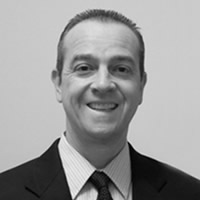
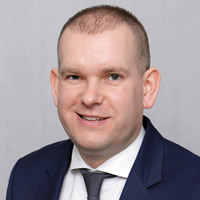
Przykład z wykorzystaniem modal

diff --git a/index.html b/index.html
@@ -9,6 +9,7 @@
 	<title>Data Zoom</title>
 	<meta name="description" content="">
 	<meta name="viewport" content="width=device-width">
+	<link rel="icon" type="image/png" sizes="32x32" href="bundles/dz/dz/images/favicon.png">
 	<!-- Place favicon.ico and apple-touch-icon.png in the root directory -->
 	<!--<link rel="stylesheet" href="http://maxcdn.bootstrapcdn.com/bootstrap/3.3.5/css/bootstrap.min.css">-->
 	<!--<script src="https://ajax.googleapis.com/ajax/libs/jquery/1.11.3/jquery.min.js"></script>-->
@@ -39,7 +40,7 @@
 		<div class="collapse navbar-collapse" id="navbarResponsive">
 			<ul class="navbar-nav ml-auto">
 				<li class="nav-item">
-					<a class="nav-link about" href="#">o Data Zoom</a>
+					<a class="nav-link about" href="#">O Data Zoom</a>
 				</li>
 				<li class="nav-item">
 					<a class="nav-link competition" href="#">Kompetencje<span class="sr-only">(current)</span></a>
@@ -111,10 +112,63 @@
 <div class="container full-screen">
 
 	<!-- Introduction Row -->
-	<h3 class="my-4">o Data Zoom</h3>
-	<p>Lorem ipsum dolor sit amet, consectetur adipisicing elit. Sint, explicabo dolores ipsam aliquam inventore corrupti eveniet quisquam quod totam laudantium repudiandae obcaecati ea consectetur debitis velit facere nisi expedita vel?</p>
-	<p style="margin-bottom: 30px">&nbsp;</p>
-	<div class="row">
+	<h3 class="my-4">O Data Zoom Management Consulting</h3>
+
+	<p>Data Zoom jest firmą doradczą wspierającą zakłady ubezpieczeń zarówno w kwestiach strategicznych, jak i operacyjnych. Nasze możliwości działania oraz doświadczenie kluczowych osób z naszego zespołu obejmują nie tylko Polskę, ale cały region Europy Środkowo-Wschodniej.</p>
+	<p>W naszym działaniu opieramy się na jak najbliższej współpracy z klientem, łącząc obiektywizm spojrzenia „z zewnątrz” z ciągłą, partnerską interakcją i współtworzeniem rozwiązań.</p>
+	<p>Zakres naszych kompetencji rozciąga się od zagadnień strategicznych, takich, jak wybór drogi rozwoju czy fuzje i przejęcia po wyzwania operacyjne, np. analizę potrzeb rynku, konkurencyjności czy tworzenie nowych produktów. </p>
+	<p>Trzon naszego zespołu stanowią fachowcy o wieloletnim doświadczeniu w pracy na i dla rynków ubezpieczeniowych. Ich drogi zawodowe dały im możliwość teoretycznego i praktycznego poznania wszystkich aspektów funkcjonowania zakładów ubezpieczeń o zróżnicowanej wielkości, celach i możliwościach.</p>
+	<p><br></p>
+	<h3 class="my-4">Nasze wartości</h3>
+
+	<p>Wartości, którym jesteśmy wierni, wytyczają nasze działania, jako firmy. Określają też postępowanie każdego z nas, niezależnie od wyzwań, z jakimi się stykamy.</p>
+
+	<p class="red"><strong>Szacunek</strong></p>
+	<ul>
+		<li>Każdy klient jest jednakowo ważny, każdy problem klienta jest jednakowo ważny, każdemu zleceniu poświęcamy maksymalną uwagę</li>
+		<li>Nie obiecujemy rozwiązań, których nie jesteśmy w stanie zrealizować</li>
+		<li>Na zawsze zachowujemy poufność naszych relacji z klientem</li>
+	</ul>
+	<p class="red"><strong>Porozumienie</strong></p>
+	<ul>
+		<li>Wszystko co robimy, powstaje w porozumieniu z klientem i służy wyłącznie jego celom</li>
+		<li>Podstawą naszej pracy jest dogłębne zrozumienie nie tylko potrzeb, ale także filozofii działania, celów i zasad, jakimi kieruje się klient – nasz partner</li>
+	</ul>
+	<p class="red"><strong>Wartość</strong></p>
+	<ul>
+		<li>Sensem każdego naszego działania jest dostarczanie klientowi wymiernej, trwałej wartości</li>
+		<li>Identyfikujemy potrzeby klienta i dostarczamy rzeczywiste rozwiązania</li>
+	</ul>
+	<p class="red"><strong>Trwałość więzi</strong></p>
+	<ul>
+		<li style="list-style: none">Dla nas nie istnieje pojęcie „były klient”. Więź pozostaje na zawsze - nie ustaje wraz z zrealizowaniem zlecenia</li>
+	</ul>
+
+
+	<p><br></p>
+	<h3 class="my-4">Nasze podejście</h3>
+
+	<p>Nasze podejście oparte jest na czterech głównych wyróżnikach:</p>
+
+	<p class="red"><strong>Rzetelności</strong></p>
+	<ul>
+		<li style="list-style: none">Nasi eksperci przeanalizują wszystkie, nawet pozornie nieistotne elementy mające wpływ na postawione nam zadanie</li>
+	</ul>
+	<p class="red"><strong>Współuczestnictwie</strong></p>
+	<ul>
+		<li style="list-style: none">Od samego początku klient jest naszym partnerem i bierze udział w procesie powstawania rozwiązania</li>
+	</ul>
+	<p class="red"><strong>Otwartość w komunikacji</strong></p>
+	<ul>
+		<li style="list-style: none">Szacunek dla klienta wymaga od nas absolutnej szczerości nawet, jeśli wiemy, że nasza opinia spotka się z jego sprzeciwem</li>
+	</ul>
+	<p class="red"><strong>Ciągłych ulepszeniach</strong></p>
+	<ul>
+		<li style="list-style: none">Stale analizujemy nowe okoliczności i poszukujemy nowych, doskonalszych rozwiązań</li>
+	</ul>
+
+
+	<!--<div class="row">
 		<div class="col-lg-4 mb-4">
 			<div class="card h-100 box">
 				<div class="card-body">
@@ -139,7 +193,7 @@
 				</div>
 			</div>
 		</div>
-	</div>
+	</div>-->
 </div>
 
 
@@ -158,12 +212,11 @@
 				<div class="card-body">
 					<h5>Strategie rozwoju</h5>
 					<ul>
-						<li>Wypracowanie strategii rozwoju  ubezpieczycieli lub wybranych obszarów biznesowych</li>
-						<li>Wzmocnienie obecnych przewag konkurencyjnych oraz identyfikacja przewag do potencjalnego rozwoju</li>
-						<li>Strategie produktowe, <br>w tym wprowadzanie na rynek nowego produktu</li>
-						<li>Strategie cenowe  - dotyczy nowych <br>i istniejących produktów</li>
-						<li>Ekspansja zagraniczna, fuzje i przejęcia (M&A)</li>
-						<li>Skuteczne wdrożenie (operacjonalizacja) strategii</li>
+						<li>Diagnozy przewag konkurencyjnych <br>i strategie ich wzmacniania</li>
+						<li>Wspieranie transformacji strategicznych, zmieniających przyjęte kierunki rozwoju</li>
+						<li>Skuteczne wdrożenia (operacjonalizacje) strategii</li>
+						<li>Wdrożenia innowacyjnych produktów na rynek</li>
+						<li>Rozwój poprzez ekspansję terytorialną oraz w ramach łańcucha wartości</li>
 					</ul>
 				</div>
 			</div>
@@ -171,16 +224,13 @@
 		<div class="col-lg-4 mb-4">
 			<div class="card h-100 box">
 				<div class="card-body">
-					<h5>Poprawa efektywności</h5>
+					<h5>Doskonałość operacyjna</h5>
 					<ul>
-						<li>Poprawa wydajności sprzedaży</li>
-						<li>Poprawa doświadczenia klienta</li>
-						<li>Poprawa efektywności operacji <br>(ryzyko, corporate governance, zasoby ludzkie)</li>
-						<li>Poprawa zwinności operacyjnej <br>(agile, lean)</li>
-						<li>Zarządzanie zmianą - reorganizacje <br>i restrukturyzacje</li>
-						<li>Transformacja cyfrowa</li>
-						<li>Włączanie kompetencji zewnętrznych do wspierania rozwoju organizacji</li>
-						<li>Integracja firm po transakcji</li>
+						<li>Poprawa efektywności sprzedaży (doświadczenie klienta, retencja / konwersja, strategia kanałów sprzedaży, systemy motywacyjne)</li>
+						<li>Dobór strategii produktowych <br>i cenowych w segmencie klienta indywidualnego i MŚP</li>
+						<li>Modele zarządzanie segmentem korporacyjnym i reasekuracją</li>
+						<li>Duże transformacje cyfrowe</li>
+						<li>Restrukturyzacje i reorganizacje grup ubezpieczeniowych i poszczególnych obszarów biznesowych</li>
 					</ul>
 				</div>
 			</div>
@@ -188,12 +238,14 @@
 		<div class="col-lg-4 mb-4">
 			<div class="card h-100 box">
 				<div class="card-body">
-					<h5>Wielopoziomowe analizy <br>i business intelligence</h5>
+					<h5>Analityka i innowacje</h5>
 					<ul>
-						<li>Analizy segmentacyjne</li>
-						<li>Prognozowanie wydarzeń w oparciu <br>o duże ilości danych wraz z wyborem optymalnych planów działania</li>
-						<li>Analizy powodów odejść klientów, niskich wskaźników konwersji</li>
+						<li>Optymalizacje procesów decyzyjnych</li>
+						<li>Wykorzystanie sztucznej inteligencji <br>w zarządzaniu działalnością ubezpieczeniową</li>
+						<li>Złożone analizy segmentacyjne</li>
+						<li>Modelowanie probabilistyczne zawężające zakres rozważanych scenariuszy rozwoju</li>
 						<li>Benchmarking strategiczny</li>
+						<li>Innowacje typu plug&play, zarządzanie rozwojem innowacyjności</li>
 					</ul>
 				</div>
 			</div>
@@ -216,21 +268,22 @@
 		</div>
 
 		<div class="card-leaders">
-			<div class="col-lg-4 col-sm-6 <!--text-center--> mb-4 float-left" >
-				<!--<a href="mailto:krzysztof.jarmuszczak@datazoom.pl"><img class="rounded-circle1 img-fluid d-block mx-auto" src="bundles/dz/dz/images/liderzy/krzysztof-jarmuszczak.jpg" alt=""></a>
-				<br>-->
+			<div class="col-lg-4 col-sm-6 text-center mb-4 float-left" >
+				<a href="mailto:krzysztof.jarmuszczak@datazoom.pl"><img class="rounded-circle1 img-fluid d-block mx-auto" src="bundles/dz/dz/images/liderzy/krzysztof-jarmuszczak.jpg" alt=""></a>
+				<br>
 				<h4>Krzysztof Jarmuszczak
 					<br>
 					<small>Partner Zarządzający</small>
 				</h4>
 			</div>
 			<div class="col-lg-8 col-sm-8 mb-8 float-left text-justify">
-				<p>Krzysztof wspiera ubezpieczycieli w przeprowadzaniu transformacji strategicznych, doborze strategii rozwoju, usprawniania modeli zarządzania organizacją oraz poprawie zwinności operacyjnej.</p>
+
+				<p>Krzysztof wspiera ubezpieczycieli w przeprowadzaniu transformacji strategicznych, doborze strategii rozwoju, usprawnianiu modeli zarządzania organizacją oraz poprawie zwinności operacyjnej.</p>
 				<p>Od blisko 40 lat jest związany z sektorem ubezpieczeń Europy Środkowo-Wschodniej. Posiada doświadczenie w obszarze zarządzania działalnością ubezpieczeniową (PZU, prezes zarządu), reasekuracyjną (PTR/Polish Re, prezes zarządu) oraz działalnością brokerską (d.Willis, prezes zarządu).
 					<br>W przypadku dwóch ostatnich z wymienionych podmiotów, jest ich założycielem. Jest laureatem Odznaki za Zasługi dla Ubezpieczeń przyznawanej przez Polską Izbę Ubezpieczeń.</p>
-				<p>Krzysztof pełni funkcję Partnera Zarządzającego Data Zoom Management Consulting oraz Prezesa Zarządu.</p>
+				<p>Krzysztof pełni funkcję Partnera Zarządzającego oraz Prezesa Zarządu.</p>
 				<div class="float-right flag">
-					<ul>
+					<!--<ul>
 						<li class="flag"><img src="https://upload.wikimedia.org/wikipedia/commons/thumb/1/12/Flag_of_Poland.svg/33px-Flag_of_Poland.svg.png" alt="PL" title="Polska"></li>
 						<li class="flag"><img src="https://upload.wikimedia.org/wikipedia/commons/thumb/1/11/Flag_of_Lithuania.svg/33px-Flag_of_Lithuania.svg.png" alt="UA" title="Litwa"></li>
 						<li class="flag"><img src="https://upload.wikimedia.org/wikipedia/commons/thumb/8/84/Flag_of_Latvia.svg/33px-Flag_of_Latvia.svg.png" alt="LV" title="Lotwa"></li>
@@ -248,62 +301,63 @@
 						<li class="flag"><img src="https://upload.wikimedia.org/wikipedia/commons/thumb/8/85/Flag_of_Belarus.svg/33px-Flag_of_Belarus.svg.png" alt="BY" title="Białoruś"></li>
 						<li class="flag"><img src="https://upload.wikimedia.org/wikipedia/commons/thumb/9/9a/Flag_of_Bulgaria.svg/33px-Flag_of_Bulgaria.svg.png" alt="BG" title="Bułgaria"></li>
 						<li class="flag"><img src="https://upload.wikimedia.org/wikipedia/commons/thumb/a/ae/Flag_of_the_United_Kingdom.svg/33px-Flag_of_the_United_Kingdom.svg.png" alt="GB" title="Wielka Brytania"></li>
-					</ul>
-					<p class="text-right" style="margin-top: 50px">Dane kontaktowe: <br> +48 600 034 100 <br>
+					</ul>-->
+					<p class="text-right card-contact">Dane kontaktowe: <br> +48 600 034 100 <br>
 						krzysztof.jarmuszczak@datazoom.pl</p>
 				</div>
 			</div>
 		</div>
 
 		<div class="card-leaders">
-			<div class="col-lg-4 col-sm-6 <!--text-center--> mb-4 float-left" >
-				<!--<a href="mailto:marek.balcerzak@datazoom.pl"><img class="rounded-circle1 img-fluid d-block mx-auto" src="bundles/dz/dz/images/liderzy/marek-balcerzak.jpg" alt=""></a>
-				<br>-->
+			<div class="col-lg-4 col-sm-6 text-center mb-4 float-left" >
+				<a href="mailto:marek.balcerzak@datazoom.pl"><img class="rounded-circle1 img-fluid d-block mx-auto" src="bundles/dz/dz/images/liderzy/marek-balcerzak.jpg" alt=""></a>
+				<br>
 				<h4>Marek Balcerzak
 					<br>
 					<small>Partner</small>
 				</h4>
 			</div>
 			<div class="col-lg-8 col-sm-8 mb-8 float-left text-justify">
-				<p>Marek wspiera klientów w doborze strategii wzrostu, wzmacnianiu przewag konkurencyjnych, strategiach produktowych i cenowych oraz poprawą wydajności procesów sprzedażowych.</p>
-				<p>Marek od ponad 15 lat jest związany związany z sektorem ubezpieczeń Europy Środkowo-Wschodniej, zarządzając rozwojem linii Property & Engineering w Polskim Towarzystwie Reasekuracji, nadzorując rozwój operacji zagranicznych Grupy PZU oraz kierując zespołem Analiz Strategicznych Grupy PZU. Marek jest dwóch współzałożycielem innowacyjnych podmiotów w sektorze ubezpieczeń (Wygodnie.pl i Data Zoom).</p>
-				<p>Marek Balcerzak pełni funkcję Partnera w Dziale Doradztwa Strategicznego Data Zoom Management Consulting.</p>
+				<p>Marek wspiera klientów w doborze strategii rozwoju, strategii produktowych i cenowych, usprawnianiach modeli zrządzania organizacją oraz dużych transformacji strategicznych.</p>
+				<p>Od blisko 20 lat związany z sektorem ubezpieczeń Europy Środkowo-Wschodniej. Posiada doświadczenie wspierania rozwoju organizacji o zróżnicowanej skali działalności (od 0,5% do 45% udziału w rynku), działających w różnych modelach biznesowych, na rynkach o zróżnicowanym poziomie konkurencyjności.</p>
+				<p>Bezpośrednio przed dołączeniem do Data Zoom, Marek odpowiadał za obszar Analiz Strategicznych <br>Grupy PZU.</p>
+				<p>Marek pełni funkcję Partnera w obszarze Doradztwa Strategicznego.</p>
 				<div class="float-right flag">
-					<ul>
+					<!--<ul>
 						<li class="flag"><img src="https://upload.wikimedia.org/wikipedia/commons/thumb/1/12/Flag_of_Poland.svg/33px-Flag_of_Poland.svg.png" alt="PL"></li>
 						<li class="flag"><img src="https://upload.wikimedia.org/wikipedia/commons/thumb/1/11/Flag_of_Lithuania.svg/33px-Flag_of_Lithuania.svg.png" alt="UA" title="Litwa"></li>
 						<li class="flag"><img src="https://upload.wikimedia.org/wikipedia/commons/thumb/8/84/Flag_of_Latvia.svg/33px-Flag_of_Latvia.svg.png" alt="LV" title="Lotwa"></li>
 						<li class="flag"><img src="https://upload.wikimedia.org/wikipedia/commons/thumb/8/8f/Flag_of_Estonia.svg/33px-Flag_of_Estonia.svg.png" alt="EE" title="Estonia"></li>
 						<li class="flag"><img src="https://upload.wikimedia.org/wikipedia/commons/thumb/4/49/Flag_of_Ukraine.svg/33px-Flag_of_Ukraine.svg.png" alt="UA" title="Ukraina"></li>
 						<li class="flag"><img src="https://upload.wikimedia.org/wikipedia/commons/thumb/c/c1/Flag_of_Hungary.svg/33px-Flag_of_Hungary.svg.png" alt="HU" title="Rumunia"></li>
-					</ul>
-					<p class="text-right" style="margin-top: 50px">Dane kontaktowe: <br> +48 604 182 893 <br>
+					</ul>-->
+					<p class="text-right card-contact">Dane kontaktowe: <br> +48 604 182 893 <br>
 						marek.balcerzak@datazoom.pl</p>
 				</div>
 			</div>
 		</div>
 
 		<div>
-			<div class="col-lg-4 col-sm-6 <!--text-center--> mb-4 float-left" >
-				<!--<a href="mailto:martur.kruszewski@datazoom.pl"><img class="rounded-circle1 img-fluid d-block mx-auto" src="bundles/dz/dz/images/liderzy/artur-kruszewski.jpg" alt=""></a>
-				<br>-->
+			<div class="col-lg-4 col-sm-6 text-center mb-4 float-left" >
+				<a href="mailto:martur.kruszewski@datazoom.pl"><img class="rounded-circle1 img-fluid d-block mx-auto" src="bundles/dz/dz/images/liderzy/artur-kruszewski.jpg" alt=""></a>
+				<br>
 				<h4>Artur Kruszewski
 					<br>
 					<small>Partner</small>
 				</h4>
 			</div>
 			<div class="col-lg-8 col-sm-8 mb-8 float-left text-justify">
-				<p>Artur wspiera ubezpieczycieli w przeprowadzaniu transformacji technologicznych, zarządzaniu obszarami technologicznymi, zarządzania obszarami technologicznymi, projektowaniu i wdrażaniu rozwiązań usprawniających procesy sprzedaży i obsługi klienta oraz zarządzaniu zmianą.</p>
-				<p>Od ponad 16 lat związany sektorem technologicznych w ubezpieczeniach. Posiada bogate doświadczenie zarządzania projektami transformacyjnymi (Link4, Unilink) oraz doświadczenie tworzenia od podstaw operacji typu Direct w Polsce i Czechach (Link4, Pojistovna).</p>
-				<p>Artur pełni funkcję Partnera w Dziale  Operacyjnym Data Zoom Management Consulting.</p>
+				<p>Artur wspiera ubezpieczycieli w przeprowadzaniu transformacji technologicznych, zarządzaniu obszarami technologicznymi, projektowaniu i wdrażaniu rozwiązań usprawniających procesy sprzedaży i obsługi klienta oraz zarządzaniu zmianą.</p>
+				<p>Od ponad 15 lat związany sektorem technologicznych w ubezpieczeniach. Posiada bogate doświadczenie zarządzania projektami transformacyjnymi (Link4, Unilink) oraz tworzenia od podstaw operacji typu Direct w Polsce i Czechach (Link4, Direct Pojistovna).</p>
+				<p>Artur pełni funkcję Partnera w obszarze Doradztwa Operacyjnego.</p>
 				<div class="float-right flag">
-					<ul>
+					<!--<ul>
 						<li>&nbsp; &nbsp; &nbsp; &nbsp;&nbsp;&nbsp;&nbsp;&nbsp;&nbsp;&nbsp;&nbsp;&nbsp;</li>
 						<li>&nbsp;&nbsp;&nbsp;&nbsp;&nbsp;&nbsp;&nbsp;&nbsp;&nbsp;&nbsp;&nbsp;&nbsp;</li>
 						<li class="flag"><img src="https://upload.wikimedia.org/wikipedia/commons/thumb/1/12/Flag_of_Poland.svg/33px-Flag_of_Poland.svg.png" alt="PL"></li>
 						<li class="flag"><img src="https://upload.wikimedia.org/wikipedia/commons/thumb/c/cb/Flag_of_the_Czech_Republic.svg/33px-Flag_of_the_Czech_Republic.svg.png" alt="CZK"></li>
-					</ul>
-					<p class="text-right" style="margin-top: 50px">Dane kontaktowe: <br> +48 606 850 877 <br>
+					</ul>-->
+					<p class="text-right card-contact">Dane kontaktowe: <br> +48 606 850 877 <br>
 						artur.kruszewski@datazoom.pl</p>
 
 				</div>

diff --git a/bundles/dz/dz/styles/vendor.css b/bundles/dz/dz/styles/vendor.css
@@ -96,3 +96,11 @@ h4 small {
 .card-body li {
 	margin-bottom: 15px;
 }
+
+card-contact {
+	margin-top: 30px
+}
+
+.red {
+	color: #C00000;
+}
